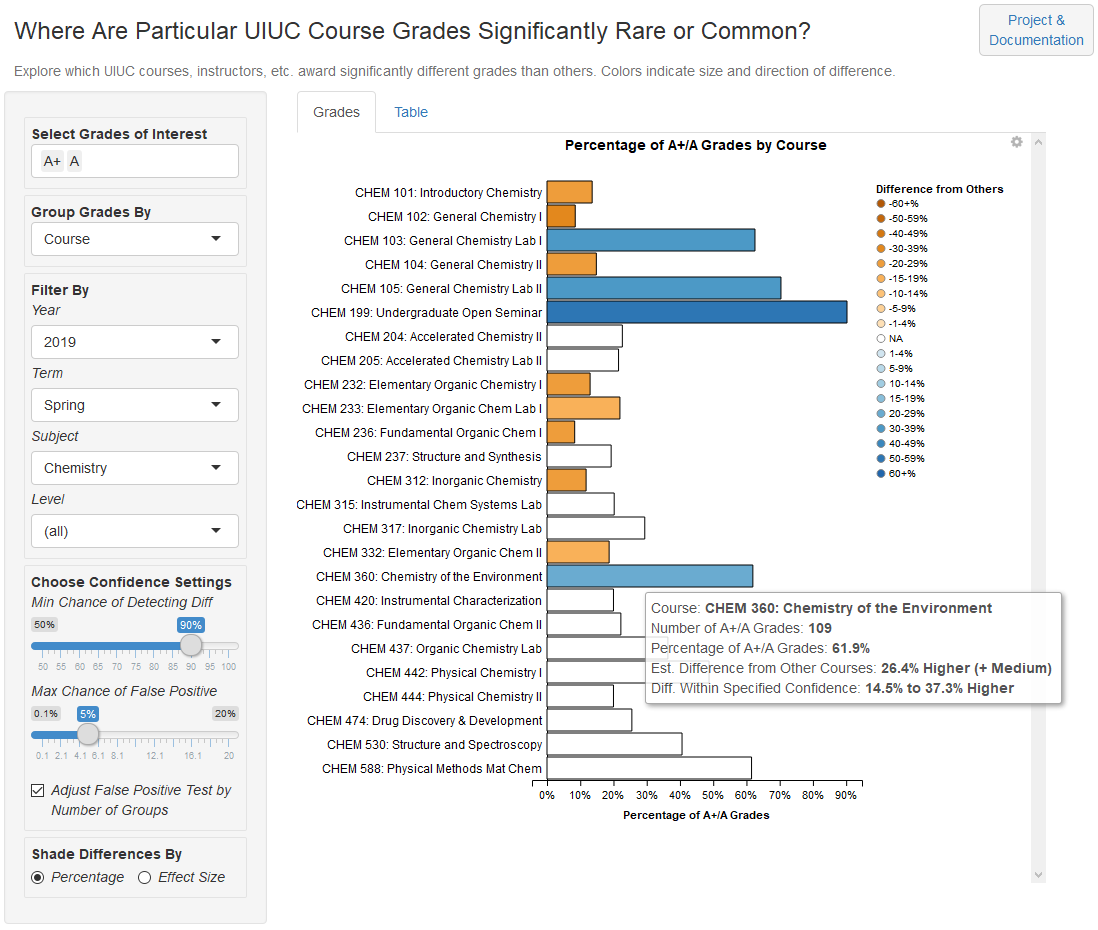
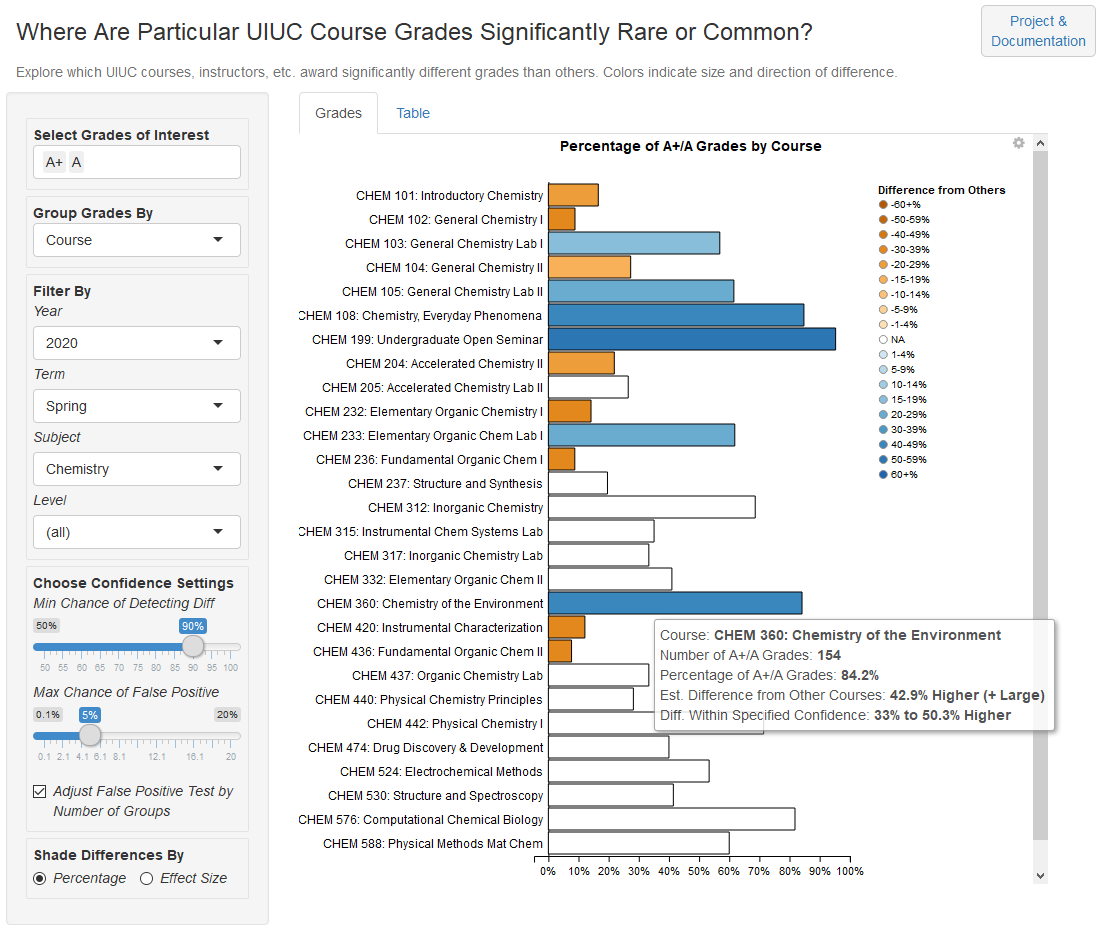
Updating app defaults and documentation to account for 2020 data and its special considerations for COVID.

diff --git a/README.md b/README.md
@@ -54,11 +54,11 @@ Past this start point, the Percentage Bar Chart Tool can compare dozens or hundr
 Here's what the Percentage Bar Chart Tool looks like:
 
 ![UIUC Grade Explorer with Inferential Guardrails - Start Page](common/images/App_Start_Page.png)
-*Examining differences in As awarded in different Chemistry courses in Spring 2019*
+*Examining differences in As awarded in different Chemistry courses in Spring 2020*
 
 The tool uses a single dataset: the [University of Illinois GPA Dataset](https://github.com/wadefagen/datasets/tree/master/gpa) compiled by Prof. Wade Fagen-Ulmschneider, used here with his kind permission.
 
-The data summarizes grades awarded at the [Champaign-Urbana campus of the University of Illinois](https://www.illinois.edu/) from spring semester 2010 through summer 2019. Please see [below](#the-university-of-illinois-gpa-dataset) for more information and descriptive statistics.
+The data summarizes letter grades awarded at the [Champaign-Urbana campus of the University of Illinois](https://www.illinois.edu/) from spring semester 2010 through summer 2020. Please see [below](#the-university-of-illinois-gpa-dataset) for more information and descriptive statistics.
 
 ### Use Cases
 
@@ -151,6 +151,32 @@ The "Est. Difference from" row gives a point estimate for the "true" difference 
 ![100-level Chemistry A Grade Percentages by Year](common/images/As_by_Year.png)
 
 *The proportion of As awarded in 100-level Chemistry courses seems to have significantly increased between 2010 and 2013. However, issues with Spring 2012 data may be confounding the results for that year -- see the next section.*
+
+### Timeless Caveat
+
+As with any data analysis, consider the context before interpreting results. To illustrate, let's look at Computer Science grades from spring 2020, the first semester that higher education dealt with COVID-19.
+
+Suppose we wanted to determine whether COVID led to grade inflation in Computer Science courses. At first glance, it looks as though this might have been the case:
+
+![Computer Science Grades for Spring Terms Up to 2020](common/images/CS_Spring_As_by_Year.png)
+
+There appears to be a significant jump in the percentage of As awarded in 2020, apart from an increasing trend in previous years.
+
+Let's take a closer look at the number of As awarded in spring 2020:
+
+![Computer Science As Awarded Spring 2020](common/images/CS_As_2020_Tooltip.png)
+
+And compare to spring 2019:
+
+![Computer Science As Awarded Spring 2019](common/images/CS_As_2019_Tooltip.png)
+
+There were almost 600 fewer As awarded in 2020, despite the fact that they constitute a higher percentage of total letter grades. This must mean there are even fewer A-,B+ and below grades in 2020 compared to 2019. A quick check with the BI Guardrails Tool shows that's the case: 2548 such grades in 2020 compared to 4528 in 2019. What is going on?
+
+It's true that instructors were encouraged to be more accommodating as students and colleagues dealt with the effects of COVID, lockdown and hastily-improvised online instruction. There's more to the story, though.
+
+Students were also given unprecedented leeway to opt for credit/no-credit grades instead of standard letter grades like A and B. Students were even free to opt for credit/no-credit in their major courses, which had never been allowed before.
+
+Fact: the U of I GPA Dataset only includes letter grades and excludes credit/no-credit. This means we can't completely gauge the effect of COVID on course grades. However, we can say that the 2020 students who opted to keep letter grades were more likely to be very high-performing.
 
 ## Project Details
 
